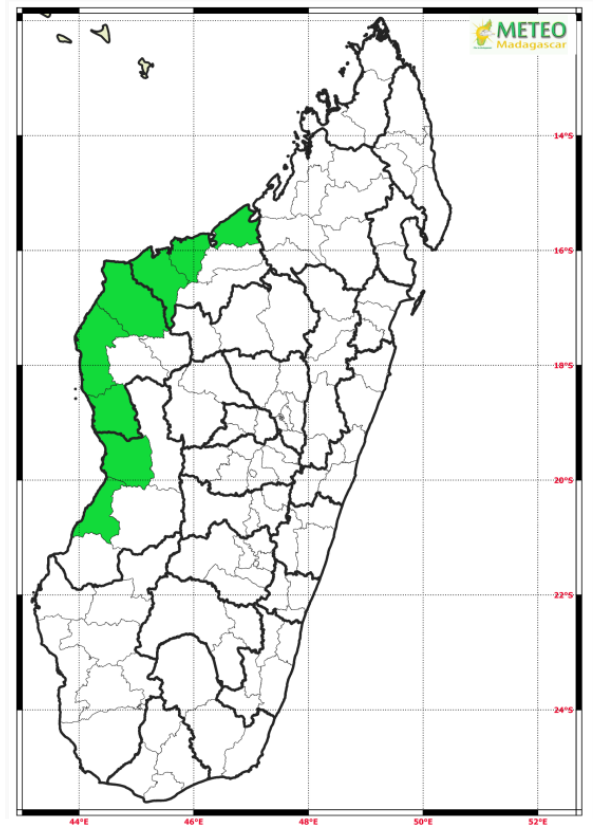
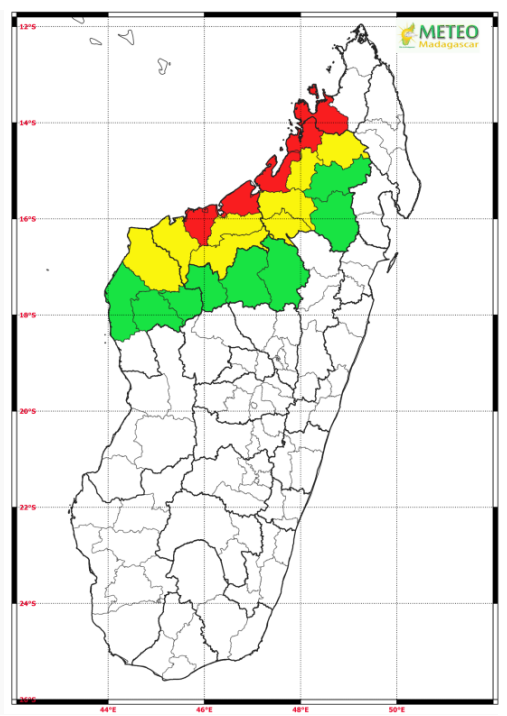
Vigilance rainflood

diff --git a/assets/js/script.js b/assets/js/script.js
@@ -1,6 +1,6 @@
 // --- CONFIGURABLE PARAMETERS ---
-const niveauAlerte = "yellow";       // Options: "none", "blue", "green", "yellow", "red"
-const typeCatastrophe = "flood"; // Options: "cyclone", "flood", "rainflood", "forestfire", "lightning", "stormsurge", "drivingconditions"
+const niveauAlerte = "red";       // Options: "none", "blue", "green", "yellow", "red"
+const typeCatastrophe = "rainflood"; // Options: "cyclone", "flood", "rainflood", "forestfire", "lightning", "stormsurge", "drivingconditions"
 
 const vigilanceMessages = [
     {
@@ -10,21 +10,47 @@ Restez informé en cas d’évolution de la situation.`,
         image: 'vigilance-vide1.jpg'
     },
     {
-        message: `**FAHAMAILOANA AMIN’ NY METY HO FIAKARAN’NY RENIRANO (Mikasika ny eto amin'ny faritra BOENY manokana)** 
+        message: `**Famitandremana mahakasika ny fahabetsahan'ny rotsakorana** 
 
-        **Novokarina ny: Alakamisy faha 22 Janoary 2026 tamin’ny 01 ora tolak’andro** 
+        **Novokarina ny Talata 27 Janoary 2026 Tamin’ny 11 ora 23 min** 
 
-       ** Tranga ahiana sy toerana hisehoany:**
+       ** Tranga ahiana**
 
-Hitohy hatrany amin’ny ankapobeny ny orana ato anatin’ny 24 ora ho avy, ary mbola mety hisy fiakarany ny haavon’ny rano amin’ny renirano sasantsasany noho ny fiantraikan’ny rotsak’orana ao anaty sahandriaka. 
-Ireo renirano misy fampitandremana ato anatin'ny faritra BOENY: 
-- Fampitandremana miloko MAVO: Renirano Betsiboka ao amin'ny Distrika Ambato Boeny sy Marovoay
-- Fampitandremana miloko MAINTSO: Renirano Mahavavy Sud ao main'ny Distrika Mitsinjo sy renirano Mahajamba ao amin'ny Distrika Mahajanga II.
+Noho ny fisian’ilay fikorontanana ao amin’ny lakandranon’i Mozambika dia tombanana hahazo vahana
+kokoa ny oram-baratra any amin’ny faritra Avaratra Andrefan’ny Nosy. Mety hahatratra 50 hatramin’ny
+100 mm ny tahan’ny rotsak’orana ao anatin’ny 24 Ora.
 
+**FOTOANA HISEHOANY:**
+- Anio Talata 27 Janoary 2026 ho an’ny
+distrikan’i Nosy Be, Ambanja, Analalava,
+Mahajanga I-II ary Mitsinjo.
+- Rahampitso Alarobia 28 Janoary 2026 ho
+an’ny distrikan’i Besalampy, Soalala,
+Marovoay, Ambato Boeny, Mampikony,
+Boriziny, Antsohihy ary Bealanana.
+- Ny Alakamisy 29 Janoary 2026 kosa ho an’i
+Maintirano, Morafenobe, Ambatomainty,
+Mandritsara, Befandriana Avaratra ary ny
+faritra BETSIBOKA.
+
+**TOERANA VOAKASIKA**
+**Miloko mena**
+Ny distrikan’i Nosy Be, Ambanja, Analalava,
+Mahajanga I-II ary Mitsinjo
+**miloko mavo**
+Ny distrikan’i Besalampy, Soalala, Marovoay,
+Ambato Boeny, Mampikony, Boriziny,
+Antsohihy ary Bealanana
+**miloko maintso**
+
+Ny distrikan’i Maintirano, Morafenobe,
+Ambatomainty, Mandritsara, Befandriana
+Avaratra ary ny faritra BETSIBOKA.
 
 **Ny mety ho fiantraikany:**
-
-➢ Fiakaran’ny renirano
+➢ Fikorontanan’ny asa aman-draharaha andavanandro;
+➢ Fiandronan’ny rano amin’ireo toerana mora tondraka;
+➢ Fiakaran’ny renirano, fihotsahan’ny tany sy ny lalana amin’ireo toerana marefo.
 
 
 
